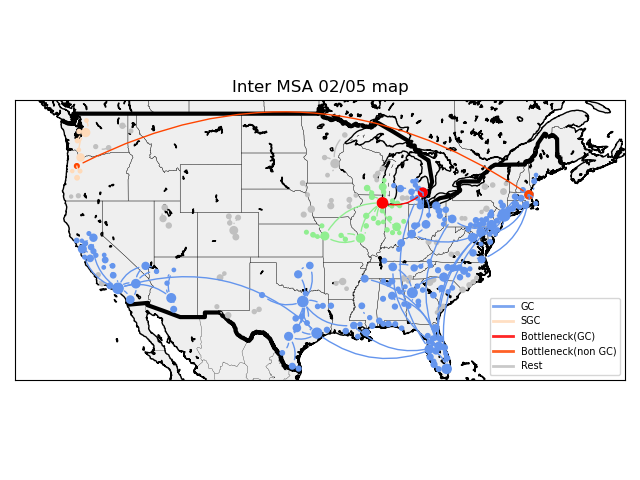
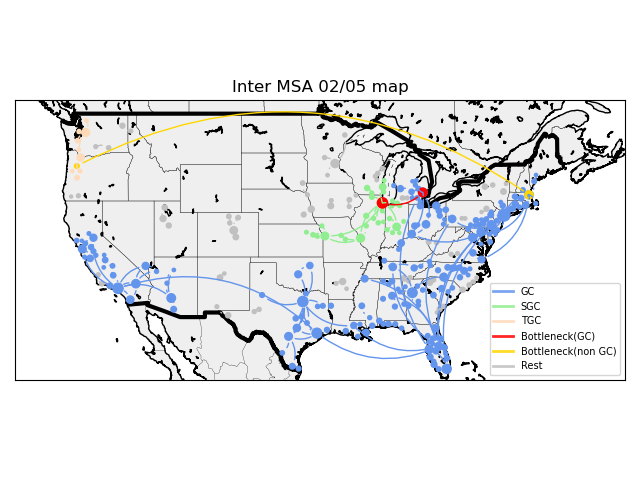
update some results

diff --git a/inter_MSA.py b/inter_MSA.py
@@ -34,11 +34,12 @@ class InterMsaG:
     #
     #     self.setup()
 
-    def __init__(self, date, dest, device, qc):
+    def __init__(self, date, dest, device):#, qc):
+        print(date)
         self.date = date
         self.device_count = device
         self.g = generate_network(dest)
-        self.msa_qc = qc
+        # self.msa_qc = qc
         self.setup()
 
     def setup(self):
@@ -49,6 +50,7 @@ class InterMsaG:
 
         self.thresholds, self.num_g, self.num_sg, self.num_r, self.dev_g, self.dev_sg = calc_g_sg(self.g, 10, 5, self.device_count)
         index_qc, index_qcb = l_sl_value(self.num_sg)
+        interval = self.thresholds[1] - self.thresholds[0]
 
         self.gc_node_size = self.num_g[index_qc]
         self.qc = self.thresholds[index_qc]
@@ -58,8 +60,10 @@ class InterMsaG:
         self.g_perco = generate_network_threshold(self.g, self.qc)
         self.g_perco_1 = generate_network_threshold(self.g, self.qcb)
 
-        self.bottleneck = calc_bottleneck_c(self.g, self.thresholds, self.qc)
-        self.bottleneck1 = calc_bottleneck_c(self.g, self.thresholds, self.qcb)
+        # self.bottleneck = calc_bottleneck_c(self.g, self.thresholds, self.qc)
+        # self.bottleneck1 = calc_bottleneck_c(self.g, self.thresholds, self.qcb)
+        self.bottleneck = calc_bn_set_diff(generate_network_threshold(self.g, self.qc-interval), generate_network_threshold(self.g, self.qc))
+        self.bottleneck1 = calc_bn_set_diff(generate_network_threshold(self.g, self.qcb-interval), generate_network_threshold(self.g, self.qcb))
 
         self.indegree = []
         for i in self.g.nodes():
@@ -114,7 +118,7 @@ class InterMsaG:
 
         plt.title('Inter MSA ' + self.date.strftime('%m/%d') + ' percolation component size')
 
-        plt.savefig('results/interMSA/' + self.date.strftime('%m_%d') + '_g_sg_size.png')
+        plt.savefig(self.result_dir() + self.date.strftime('%m_%d') + '_g_sg_size.png')
         return
 
     def plot_g_sg_c(self):
@@ -141,7 +145,7 @@ class InterMsaG:
 
         plt.title('Inter MSA ' + self.date.strftime('%m/%d') + ' continuous component size')
 
-        plt.savefig('results/interMSA/' + self.date.strftime('%m_%d') + '_g_rg_size.png')
+        plt.savefig(self.result_dir() + self.date.strftime('%m_%d') + '_g_rg_size.png')
         return
 
     def plot_hist(self):
@@ -158,7 +162,7 @@ class InterMsaG:
         lines = [Line2D([0], [0], color=c, linewidth=2, alpha=0.85) for c in colors]
         plt.legend(lines, labels)
         plt.title('Inter MSA ' + self.date.strftime('%m/%d') + ' CCDF')
-        plt.savefig('results/interMSA/' + self.date.strftime('%m_%d') + '_hist.png')
+        plt.savefig(self.result_dir() + self.date.strftime('%m_%d') + '_hist.png')
         return
 
     def plot_g_sg_device(self):
@@ -186,7 +190,7 @@ class InterMsaG:
 
         plt.title('Inter MSA ' + self.date.strftime('%m/%d') + ' percolation device count')
 
-        plt.savefig('results/interMSA/' + self.date.strftime('%m_%d') + '_g_sg_device.png')
+        plt.savefig(self.result_dir() + self.date.strftime('%m_%d') + '_g_sg_device.png')
         return
 
     def plot_msa_qc(self):
@@ -208,7 +212,7 @@ class InterMsaG:
         plt.ylabel('device count')
 
         plt.title('Sum of remaining MSAs device count ' + self.date.strftime('%m/%d'))
-        plt.savefig('results/interMSA/' + self.date.strftime('%m_%d') + '_MSAs_device.png')
+        plt.savefig(self.result_dir() + self.date.strftime('%m_%d') + '_MSAs_device.png')
         return
 
     def plot_qc_map(self):
@@ -264,7 +268,7 @@ class InterMsaG:
 
         plt.legend()
         plt.title('MSA qc map ' + self.date.strftime('%m/%d'))
-        plt.savefig('results/interMSA/' + self.date.strftime('%m_%d') + '_MSAs_qc_map.png')
+        plt.savefig(self.result_dir() + self.date.strftime('%m_%d') + '_MSAs_qc_map.png')
         return
 
     def plot_map(self, g):
@@ -340,15 +344,18 @@ class InterMsaG:
                                         ),
                         )
 
-        bn = nx.Graph()
-        bn.add_edges_from(self.bottleneck)
-        nx.draw_networkx_nodes(G=bn, node_color='r', nodelist=bn.nodes(), pos=pos1, alpha=1,
-                               node_size=[(self.device_count[i]/200) ** (1 / 2) for i in bn.nodes()])
-        for i, j in bn.edges():
+        tmp = set()
+        for i in cc[3:]:
+            if len(i) > 1:
+                tmp |= i
+        g2 = g.subgraph(tmp)
+        nx.draw_networkx_nodes(G=g2, node_color='silver', nodelist=g2.nodes(), pos=pos1, alpha=1,
+                               node_size=[(self.device_count[i]/200) ** (1 / 2) for i in g2.nodes()])
+        for i, j in g2.edges():
             ax.annotate("",
                         xy=pos1[i], xycoords='data',
                         xytext=pos1[j], textcoords='data',
-                        arrowprops=dict(arrowstyle="-", color='r',
+                        arrowprops=dict(arrowstyle="-", color='silver',
                                         shrinkA=5, shrinkB=5,
                                         patchA=None, patchB=None,
                                         connectionstyle="arc3,rad=0.3",
@@ -370,18 +377,15 @@ class InterMsaG:
                                         ),
                         )
 
-        tmp = set()
-        for i in cc[3:]:
-            if len(i) > 1:
-                tmp |= i
-        g2 = g.subgraph(tmp)
-        nx.draw_networkx_nodes(G=g2, node_color='silver', nodelist=g2.nodes(), pos=pos1, alpha=1,
-                               node_size=[(self.device_count[i]/200) ** (1 / 2) for i in g2.nodes()])
-        for i, j in g2.edges():
+        bn = nx.Graph()
+        bn.add_edges_from(self.bottleneck)
+        nx.draw_networkx_nodes(G=bn, node_color='r', nodelist=bn.nodes(), pos=pos1, alpha=1,
+                               node_size=[(self.device_count[i]/200) ** (1 / 2) for i in bn.nodes()])
+        for i, j in bn.edges():
             ax.annotate("",
                         xy=pos1[i], xycoords='data',
                         xytext=pos1[j], textcoords='data',
-                        arrowprops=dict(arrowstyle="-", color='silver',
+                        arrowprops=dict(arrowstyle="-", color='r',
                                         shrinkA=5, shrinkB=5,
                                         patchA=None, patchB=None,
                                         connectionstyle="arc3,rad=0.3",
@@ -389,11 +393,11 @@ class InterMsaG:
                         )
 
         labels = ['GC', 'SGC', 'TGC', 'Bottleneck(GC)', 'Bottleneck(non GC)', 'Rest']
-        colors = ['cornflowerblue', 'lightgreen' 'peachpuff', 'r', 'gold', 'silver']
+        colors = ['cornflowerblue', 'lightgreen', 'peachpuff', 'r', 'gold', 'silver']
         lines = [Line2D([0], [0], color=c, linewidth=2, alpha=0.85) for c in colors]
         plt.tight_layout()
         plt.legend(lines, labels, fontsize=7, loc=4)
         plt.title('Inter MSA ' + self.date.strftime('%m/%d') + ' map')
-        plt.savefig('results/interMSA/' + self.date.strftime('%m_%d') + '_map.png')
+        plt.savefig(self.result_dir() + self.date.strftime('%m_%d') + '_map1.png')
 
         return

diff --git a/main.py b/main.py
@@ -28,25 +28,27 @@ def main(file, state_id):
 
 
 if __name__ == '__main__':
-    date = dt.date(2020,1,8)
-    while (date < dt.date(2020,11,1)):
-        # device_count, dest, MSA_dest = read_files_whole(date)
-        # tmp = InterMsaG(date, dest, device_count)
-        # tmp.plot_map(tmp.g_perco)
-        # tmp.plot_g_sg()
-        # tmp.plot_g_sg_c()
-        msa = ['35620', '31080', '16980', '19100', '26420', '47900', '33100', '37980', '12060', '38060']
-        tmp = Nation(date)
-        tmp.interMSA.plot_msa_qc()
-        tmp.interMSA.plot_map(tmp.interMSA.g_perco)
-        tmp.interMSA.plot_g_sg()
-        tmp.interMSA.plot_g_sg_device()
-        tmp.interMSA.plot_hist()
-        tmp.interMSA.plot_qc_map()
-        for i in msa:
-            tmp.MSAs[i].plot_g_sg()
-            tmp.MSAs[i].plot_g_sg_c()
-        date += dt.timedelta(days=28)
+    date = dt.date(2020,3,26)
+    while date < dt.date(2020,3,27):
+        device_count, dest, MSA_dest = read_files_whole(date)
+        tmp = InterMsaG(date, dest, device_count)
+        tmp.plot_map(tmp.g_perco)
+        tmp.plot_g_sg()
+        tmp.plot_g_sg_c()
+        tmp.plot_g_sg_device()
+        tmp.plot_hist()
+        # msa = ['35620', '31080', '16980', '19100', '26420', '47900', '33100', '37980', '12060', '38060']
+        # tmp = Nation(date)
+        # tmp.interMSA.plot_msa_qc()
+        # tmp.interMSA.plot_map(tmp.interMSA.g_perco)
+        # tmp.interMSA.plot_g_sg()
+        # tmp.interMSA.plot_g_sg_device()
+        # tmp.interMSA.plot_hist()
+        # tmp.interMSA.plot_qc_map()
+        # for i in msa:
+        #     tmp.MSAs[i].plot_g_sg()
+        #     tmp.MSAs[i].plot_g_sg_c()
+        date += dt.timedelta(days=1)
     # start = dt.date(2020, 9, 8)
     # end = dt.date(2020, 9, 9)
     #

diff --git a/model.py b/model.py
@@ -282,15 +282,20 @@ def get_xy(pt):
 #
 #     return bc
 
-def plt_edge(g, color):
-    ax = plt.gca()
-    for i, j in g.edges():
-        ax.annotate("",
-                    xy=pos[i], xycoords='data',
-                    xytext=pos[j], textcoords='data',
-                    arrowprops=dict(arrowstyle="-", color='silver',
-                                    shrinkA=5, shrinkB=5,
-                                    patchA=None, patchB=None,
-                                    connectionstyle="arc3,rad=0.3",
-                                    ),
-                    )
+def calc_bn_set_diff(g_b, g):
+    bn = set()
+    g_b_1 = g_b.subgraph(sorted(list(nx.connected_components(g_b)), key=len, reverse=True)[0])
+    g_b_link = set(g_b_1.edges())
+    tmp = sorted(list(nx.connected_components(g)), key=len, reverse=True)
+    g_1, g_2 = tmp[0], tmp[1]
+
+    for i, j in g_b_link.difference(set(g.edges())):
+        if (i in g_1 and j in g_1) or (i in g_2 and j in g_2):
+            continue
+
+        if g_b_1.degree(i) == 1 or g_b_1.degree(j) == 1:
+            continue
+
+        bn.add((i,j))
+
+    return bn

diff --git a/whole_network.py b/whole_network.py
@@ -42,12 +42,12 @@ def file_whole(path):
                     dest[tmp] += dests[i]
                 else:
                     dest[tmp] = dests[i]
-            else:
-                tmp = tuple(sorted([block, str_i]))
-                if tmp in m_dest[block_m].keys():
-                    m_dest[block_m][tmp] += dests[i]
-                else:
-                    m_dest[block_m][tmp] = dests[i]
+            # else:
+            #     tmp = tuple(sorted([block, str_i]))
+            #     if tmp in m_dest[block_m].keys():
+            #         m_dest[block_m][tmp] += dests[i]
+            #     else:
+            #         m_dest[block_m][tmp] = dests[i]
 
     return device_count, dest, m_dest
 
